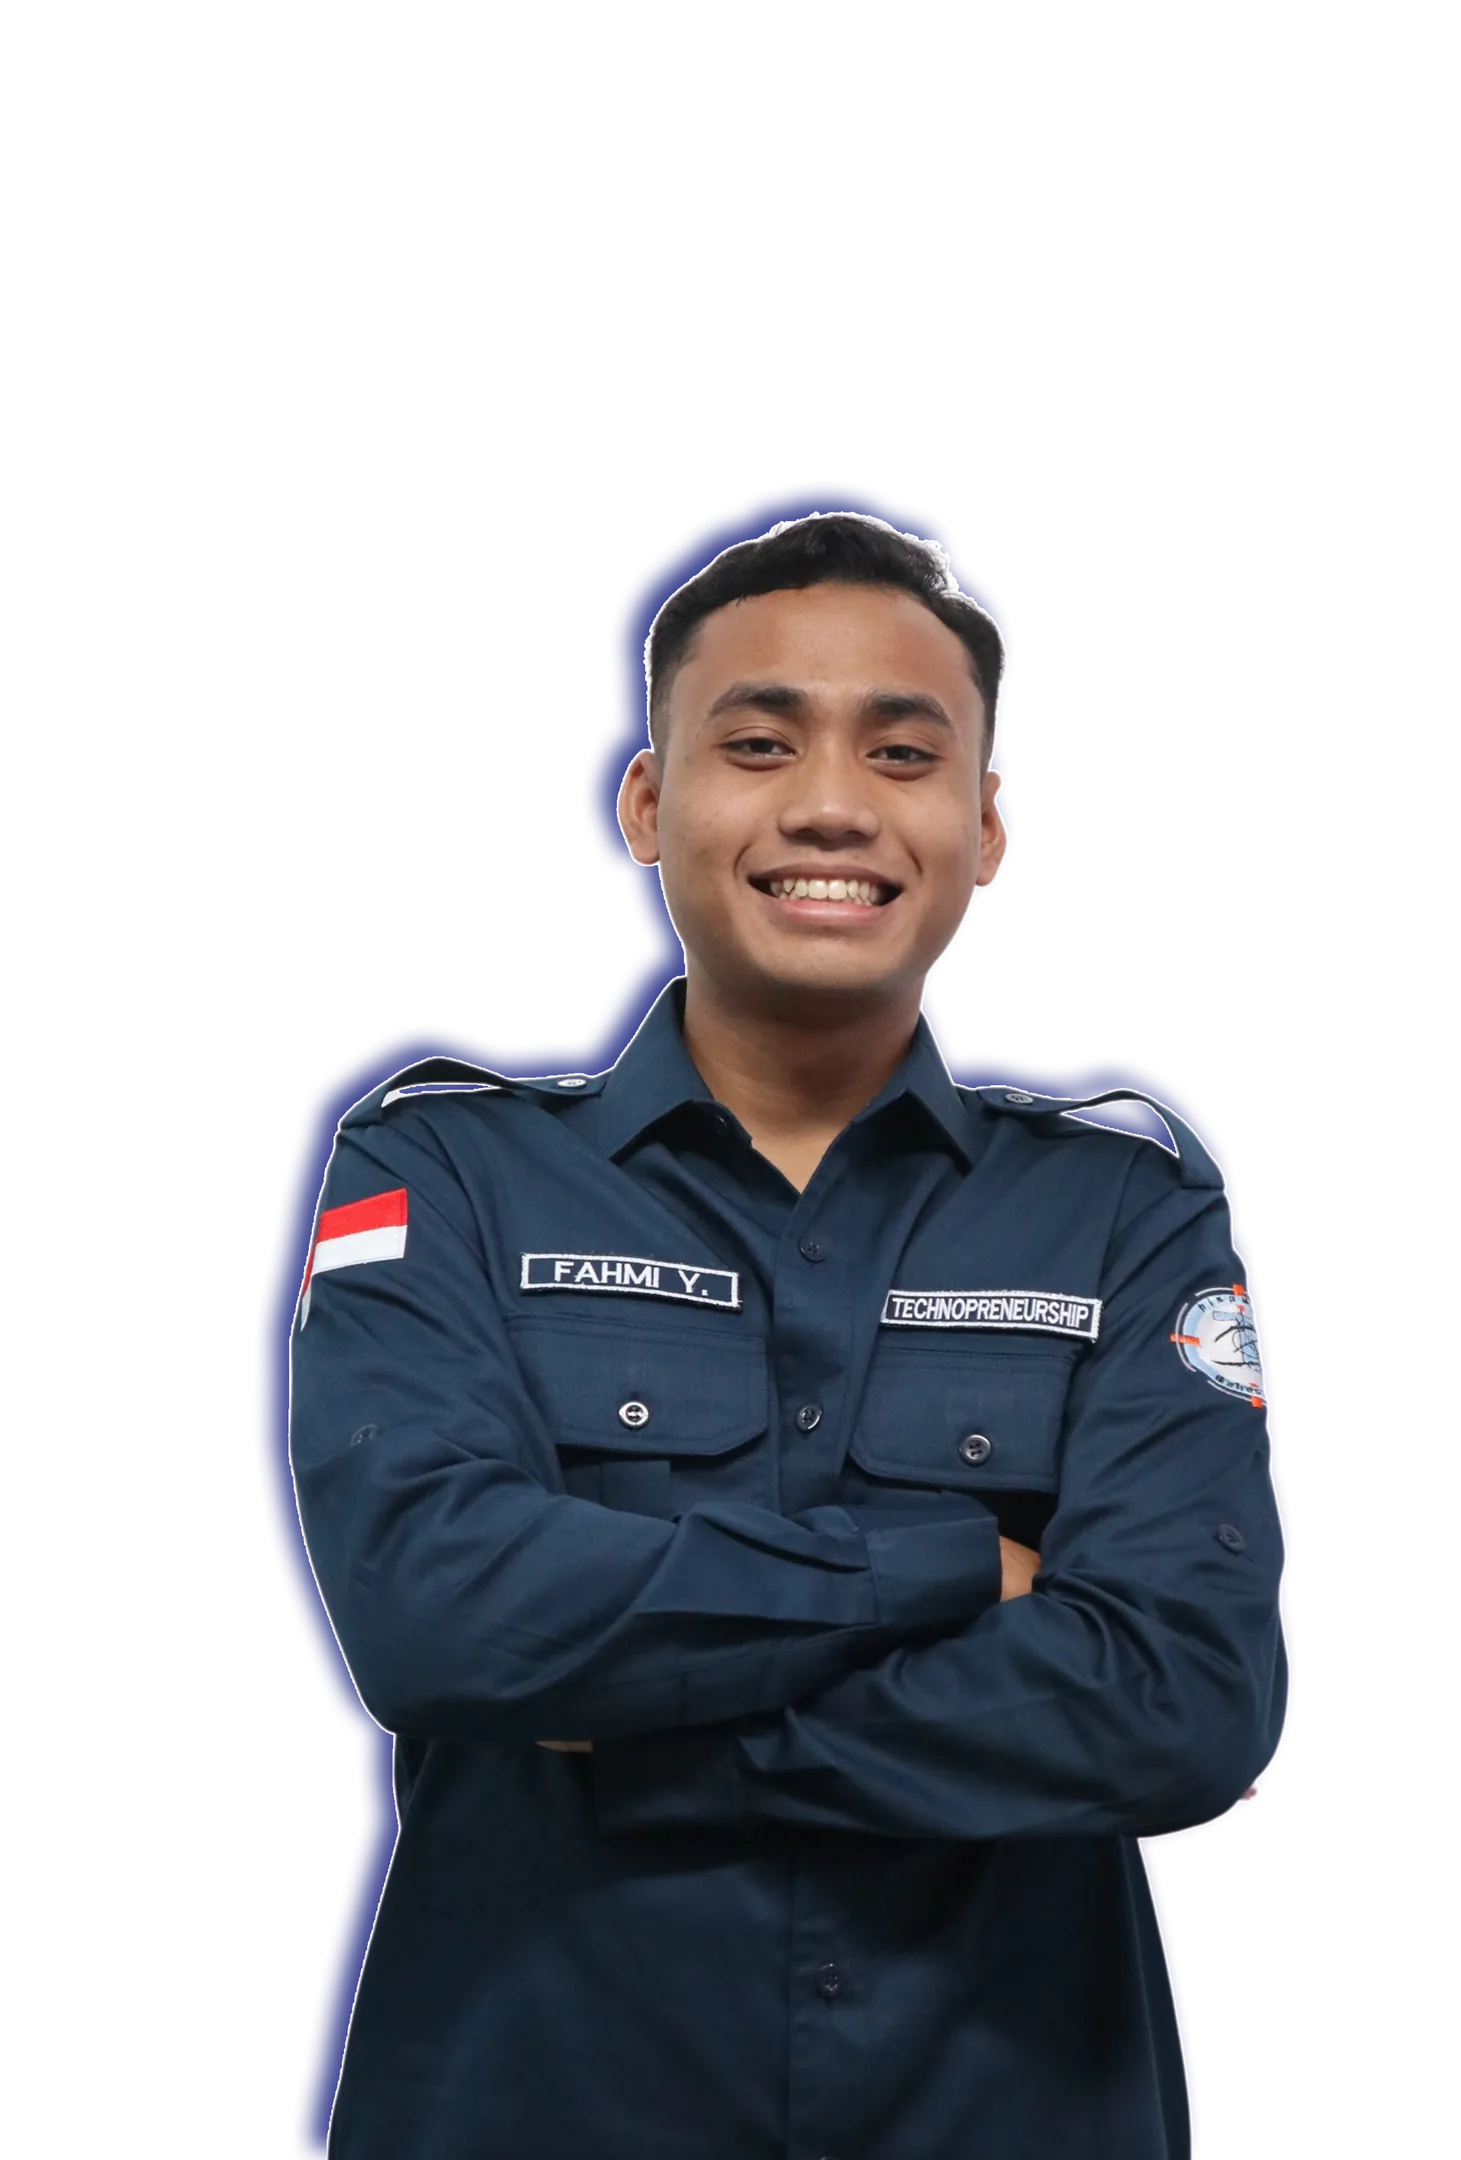
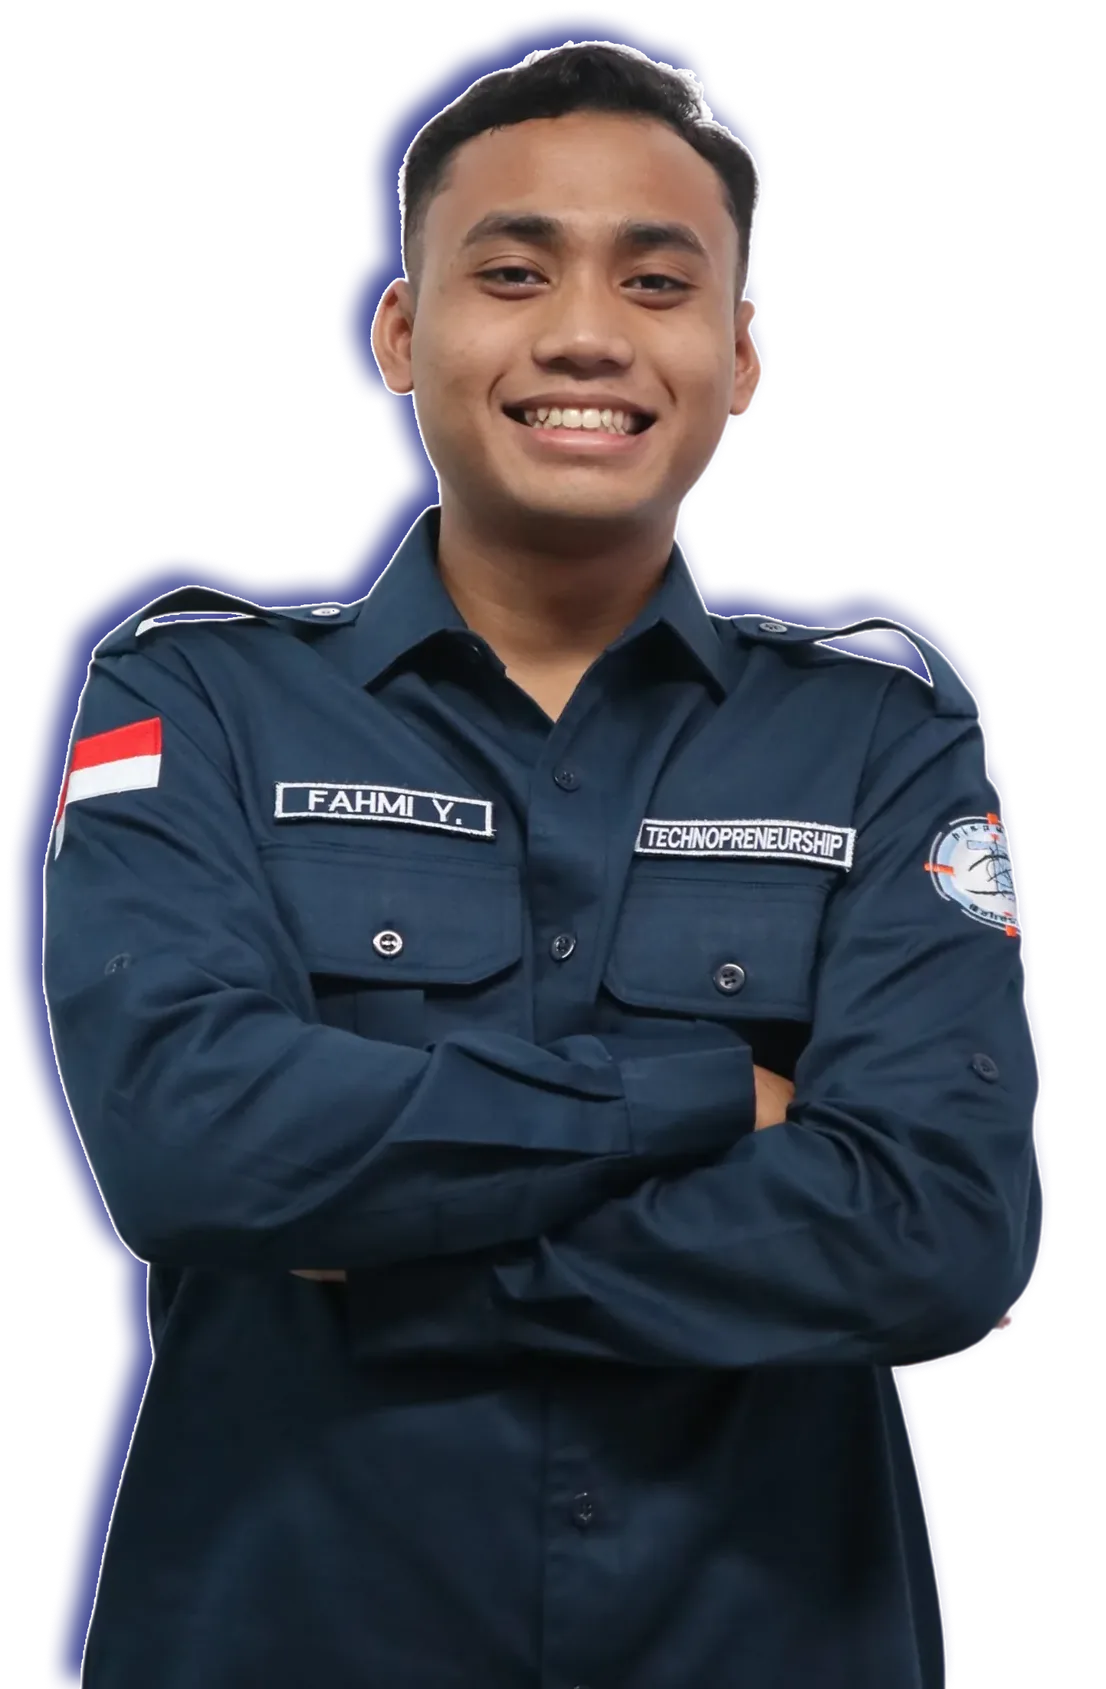
Fixing Bug

diff --git a/client/src/pages/dashboard/prodi.tsx b/client/src/pages/dashboard/prodi.tsx
@@ -1198,6 +1198,18 @@ function deriveSlugFromUrl(url: string): string {
 	}
 }
 
+function slugFromCode(code: string): string {
+	return (code || '').toLowerCase().replace(/[^a-z0-9]+/g, '-').replace(/^-+|-+$/g, '');
+}
+
+function effectiveSlugForSubject(subject: any): string {
+	const fromUrl = deriveSlugFromUrl(subject?.rpsUrl || '');
+	if (fromUrl) return fromUrl;
+	if (subject?.code) return slugFromCode(subject.code);
+	if (subject?.name) return (subject.name as string).toLowerCase().replace(/[^a-z0-9]+/g, '-').replace(/^-+|-+$/g, '');
+	return '';
+}
+
 function SubjectEditDialog({
 	open,
 	onOpenChange,
@@ -1219,9 +1231,13 @@ function SubjectEditDialog({
 	onChange: (field: string, val: any) => void;
 	readOnly: boolean;
 }) {
-	const slug = deriveSlugFromUrl(subject?.rpsUrl || '');
+	const slug = effectiveSlugForSubject(subject);
+	const urlSlug = deriveSlugFromUrl(subject?.rpsUrl || '');
 	const resources = (allData.subjectRpsResources ?? []).find(
-		(r: any) => (r.slug || '').toLowerCase() === slug,
+		(r: any) => {
+			const rs = (r.slug || '').toLowerCase();
+			return rs === slug || (urlSlug && rs === urlSlug);
+		},
 	);
 	const materiPpt: { label: string; url: string }[] = resources?.materiPpt ?? [];
 	const linkFileList: { label: string; url: string }[] = resources?.linkFile ?? [];
@@ -1244,9 +1260,10 @@ function SubjectEditDialog({
 
 	const updateResources = (materiPptNew: any[], linkFileNew: any[]) => {
 		const rps = [...(allData.subjectRpsResources ?? [])];
-		const idx = rps.findIndex((r: any) => (r.slug || '').toLowerCase() === slug);
+		const lookupSlug = urlSlug || slug;
+		const idx = rps.findIndex((r: any) => (r.slug || '').toLowerCase() === lookupSlug);
 		const entry = {
-			slug,
+			slug: lookupSlug,
 			subjectName: subject?.name || '',
 			materiPpt: materiPptNew,
 			linkFile: linkFileNew,
@@ -1254,7 +1271,7 @@ function SubjectEditDialog({
 		};
 		if (idx >= 0) {
 			rps[idx] = { ...rps[idx], ...entry };
-		} else if (slug) {
+		} else if (lookupSlug) {
 			rps.push(entry);
 		}
 		onChange('subjectRpsResources', rps);
@@ -1309,77 +1326,73 @@ function SubjectEditDialog({
 						<Input value={subject.rpsUrl || ''} onChange={(e) => updateSubject('rpsUrl', e.target.value)} disabled={readOnly} className="text-xs" placeholder="https://informatika.uin-malang.ac.id/..." />
 					</div>
 
-					{slug && (
-						<>
-							<div className="border-t pt-4">
-								<div className="flex items-center justify-between mb-3">
-									<h3 className="text-sm font-semibold flex items-center gap-2">
-										<BookOpen className="h-4 w-4 text-primary" /> Materi PPT
-									</h3>
+				<div className="border-t pt-4">
+					<div className="flex items-center justify-between mb-3">
+						<h3 className="text-sm font-semibold flex items-center gap-2">
+							<BookOpen className="h-4 w-4 text-primary" /> Materi PPT
+						</h3>
+						{!readOnly && (
+							<Button variant="outline" size="sm" onClick={addMateri}>
+								<Plus className="h-3 w-3 mr-1" /> Tambah
+							</Button>
+						)}
+					</div>
+					{materiPpt.length ? (
+						<div className="space-y-2">
+							{materiPpt.map((m, i) => (
+								<div key={i} className="flex gap-2 items-center">
+									<Input value={m.label} onChange={(e) => updateMateri(i, 'label', e.target.value)} disabled={readOnly} className="w-28 text-xs" placeholder="Label" />
+									<Input value={m.url} onChange={(e) => updateMateri(i, 'url', e.target.value)} disabled={readOnly} className="flex-1 text-xs" placeholder="URL" />
+									{m.url && (
+										<a href={m.url} target="_blank" rel="noopener noreferrer" className="shrink-0 text-primary hover:text-primary/80">
+											<ExternalLink className="h-3.5 w-3.5" />
+										</a>
+									)}
 									{!readOnly && (
-										<Button variant="outline" size="sm" onClick={addMateri}>
-											<Plus className="h-3 w-3 mr-1" /> Tambah
+										<Button variant="ghost" size="icon" className="shrink-0 h-7 w-7 text-destructive" onClick={() => removeMateri(i)}>
+											<Trash2 className="h-3.5 w-3.5" />
 										</Button>
 									)}
 								</div>
-								{materiPpt.length ? (
-									<div className="space-y-2">
-										{materiPpt.map((m, i) => (
-											<div key={i} className="flex gap-2 items-center">
-												<Input value={m.label} onChange={(e) => updateMateri(i, 'label', e.target.value)} disabled={readOnly} className="w-28 text-xs" placeholder="Label" />
-												<Input value={m.url} onChange={(e) => updateMateri(i, 'url', e.target.value)} disabled={readOnly} className="flex-1 text-xs" placeholder="URL" />
-												{m.url && (
-													<a href={m.url} target="_blank" rel="noopener noreferrer" className="shrink-0 text-primary hover:text-primary/80">
-														<ExternalLink className="h-3.5 w-3.5" />
-													</a>
-												)}
-												{!readOnly && (
-													<Button variant="ghost" size="icon" className="shrink-0 h-7 w-7 text-destructive" onClick={() => removeMateri(i)}>
-														<Trash2 className="h-3.5 w-3.5" />
-													</Button>
-												)}
-											</div>
-										))}
-									</div>
-								) : (
-									<p className="text-xs text-muted-foreground">Belum ada materi.</p>
-								)}
-							</div>
-
-							<div className="border-t pt-4">
-								<div className="flex items-center justify-between mb-3">
-									<h3 className="text-sm font-semibold">Link File</h3>
-									{!readOnly && (
-										<Button variant="outline" size="sm" onClick={addLinkFile}>
-											<Plus className="h-3 w-3 mr-1" /> Tambah
-										</Button>
-									)}
-								</div>
-								{linkFileList.length ? (
-									<div className="space-y-2">
-										{linkFileList.map((f, i) => (
-											<div key={i} className="flex gap-2 items-center">
-												<Input value={f.label} onChange={(e) => updateLinkFile(i, 'label', e.target.value)} disabled={readOnly} className="w-28 text-xs" placeholder="Label" />
-												<Input value={f.url} onChange={(e) => updateLinkFile(i, 'url', e.target.value)} disabled={readOnly} className="flex-1 text-xs" placeholder="URL" />
-												{f.url && (
-													<a href={f.url} target="_blank" rel="noopener noreferrer" className="shrink-0 text-primary hover:text-primary/80">
-														<ExternalLink className="h-3.5 w-3.5" />
-													</a>
-												)}
-												{!readOnly && (
-													<Button variant="ghost" size="icon" className="shrink-0 h-7 w-7 text-destructive" onClick={() => removeLinkFile(i)}>
-														<Trash2 className="h-3.5 w-3.5" />
-													</Button>
-												)}
-											</div>
-										))}
-									</div>
-								) : (
-									<p className="text-xs text-muted-foreground">Belum ada link file.</p>
-								)}
-							</div>
-						</>
+							))}
+						</div>
+					) : (
+						<p className="text-xs text-muted-foreground">Belum ada materi.</p>
 					)}
+				</div>
+
+				<div className="border-t pt-4">
+					<div className="flex items-center justify-between mb-3">
+						<h3 className="text-sm font-semibold">Link File</h3>
+						{!readOnly && (
+							<Button variant="outline" size="sm" onClick={addLinkFile}>
+								<Plus className="h-3 w-3 mr-1" /> Tambah
+							</Button>
+						)}
+					</div>
+					{linkFileList.length ? (
+						<div className="space-y-2">
+							{linkFileList.map((f, i) => (
+								<div key={i} className="flex gap-2 items-center">
+									<Input value={f.label} onChange={(e) => updateLinkFile(i, 'label', e.target.value)} disabled={readOnly} className="w-28 text-xs" placeholder="Label" />
+									<Input value={f.url} onChange={(e) => updateLinkFile(i, 'url', e.target.value)} disabled={readOnly} className="flex-1 text-xs" placeholder="URL" />
+									{f.url && (
+										<a href={f.url} target="_blank" rel="noopener noreferrer" className="shrink-0 text-primary hover:text-primary/80">
+											<ExternalLink className="h-3.5 w-3.5" />
+										</a>
+									)}
+									{!readOnly && (
+										<Button variant="ghost" size="icon" className="shrink-0 h-7 w-7 text-destructive" onClick={() => removeLinkFile(i)}>
+											<Trash2 className="h-3.5 w-3.5" />
+										</Button>
+									)}
+								</div>
+							))}
+						</div>
+					) : (
+						<p className="text-xs text-muted-foreground">Belum ada link file.</p>
+					)}
+				</div>
 				</div>
 			</DialogContent>
 		</Dialog>
@@ -1451,32 +1464,70 @@ function SemesterSubjectTable({
 							</tr>
 						))}
 					</tbody>
-					{totalSks && (
-						<tfoot>
-							<tr className="border-t bg-muted/50 font-semibold">
-								<td colSpan={3} className="p-2 text-right">Total SKS</td>
-								<td className="p-2 text-center">{totalSks}</td>
-								<td colSpan={readOnly ? 1 : 2} />
-							</tr>
-						</tfoot>
-					)}
-				</table>
-			</div>
+				<tfoot>
+					<tr className="border-t bg-muted/50 font-semibold">
+						<td colSpan={3} className="p-2 text-right">Total SKS</td>
+						<td className="p-2 text-center">
+							{!readOnly && !isOptional ? (
+								<Input
+									value={totalSks || ''}
+									onChange={(e) => {
+										const sems = [...(allData.semesters ?? [])];
+										sems[semIdx] = { ...sems[semIdx], totalSks: e.target.value };
+										onChange('semesters', sems);
+									}}
+									className="w-14 h-7 text-center text-sm p-1"
+								/>
+							) : (
+								totalSks || '–'
+							)}
+						</td>
+						<td colSpan={readOnly ? 1 : 2} />
+					</tr>
+				</tfoot>
+			</table>
+		</div>
 
-			{editIdx !== null && (
-				<SubjectEditDialog
-					open
-					onOpenChange={(v) => { if (!v) setEditIdx(null); }}
-					subject={subjects[editIdx]}
-					semIdx={semIdx}
-					subIdx={editIdx}
-					isOptional={isOptional}
-					allData={allData}
-					onChange={onChange}
-					readOnly={readOnly}
-				/>
-			)}
-		</>
+		{!readOnly && (
+			<div className="mt-2">
+				<Button
+					variant="outline"
+					size="sm"
+					onClick={() => {
+						if (isOptional) {
+							const list = [...(allData.optionalSubjects ?? [])];
+							list.push({ no: String(list.length + 1), code: '', name: '', sks: '', prerequisite: '' });
+							onChange('optionalSubjects', list);
+						} else {
+							const sems = [...(allData.semesters ?? [])];
+							const sem = { ...sems[semIdx] };
+							const subs = [...(sem.subjects ?? [])];
+							subs.push({ no: String(subs.length + 1), code: '', name: '', sks: '', prerequisite: '' });
+							sem.subjects = subs;
+							sems[semIdx] = sem;
+							onChange('semesters', sems);
+						}
+					}}
+				>
+					<Plus className="h-3 w-3 mr-1" /> Tambah Mata Kuliah
+				</Button>
+			</div>
+		)}
+
+		{editIdx !== null && (
+			<SubjectEditDialog
+				open
+				onOpenChange={(v) => { if (!v) setEditIdx(null); }}
+				subject={subjects[editIdx]}
+				semIdx={semIdx}
+				subIdx={editIdx}
+				isOptional={isOptional}
+				allData={allData}
+				onChange={onChange}
+				readOnly={readOnly}
+			/>
+		)}
+	</>
 	);
 }
 

diff --git a/client/src/pages/prodi/curriculum/[slug].tsx b/client/src/pages/prodi/curriculum/[slug].tsx
@@ -40,6 +40,10 @@ function getCurriculum(data: any) {
 	return data?.curriculum ?? data?.content?.curriculum ?? null;
 }
 
+function slugFromCode(code: string): string {
+	return (code || '').toLowerCase().replace(/[^a-z0-9]+/g, '-').replace(/^-+|-+$/g, '');
+}
+
 function findSubjectBySlug(data: any, slug: string) {
 	const norm = slug.toLowerCase().trim();
 	for (const curriculum of getAllCurriculumSources(data)) {
@@ -49,10 +53,16 @@ function findSubjectBySlug(data: any, slug: string) {
 				if (sub.rpsUrl && normalizeSlug(sub.rpsUrl) === norm) {
 					return { ...sub, semesterNum: sem.semester };
 				}
+				if (sub.code && slugFromCode(sub.code) === norm) {
+					return { ...sub, semesterNum: sem.semester };
+				}
 			}
 		}
 		for (const sub of optionalSubjects) {
 			if (sub.rpsUrl && normalizeSlug(sub.rpsUrl) === norm) {
+				return { ...sub, semesterNum: null };
+			}
+			if (sub.code && slugFromCode(sub.code) === norm) {
 				return { ...sub, semesterNum: null };
 			}
 		}
